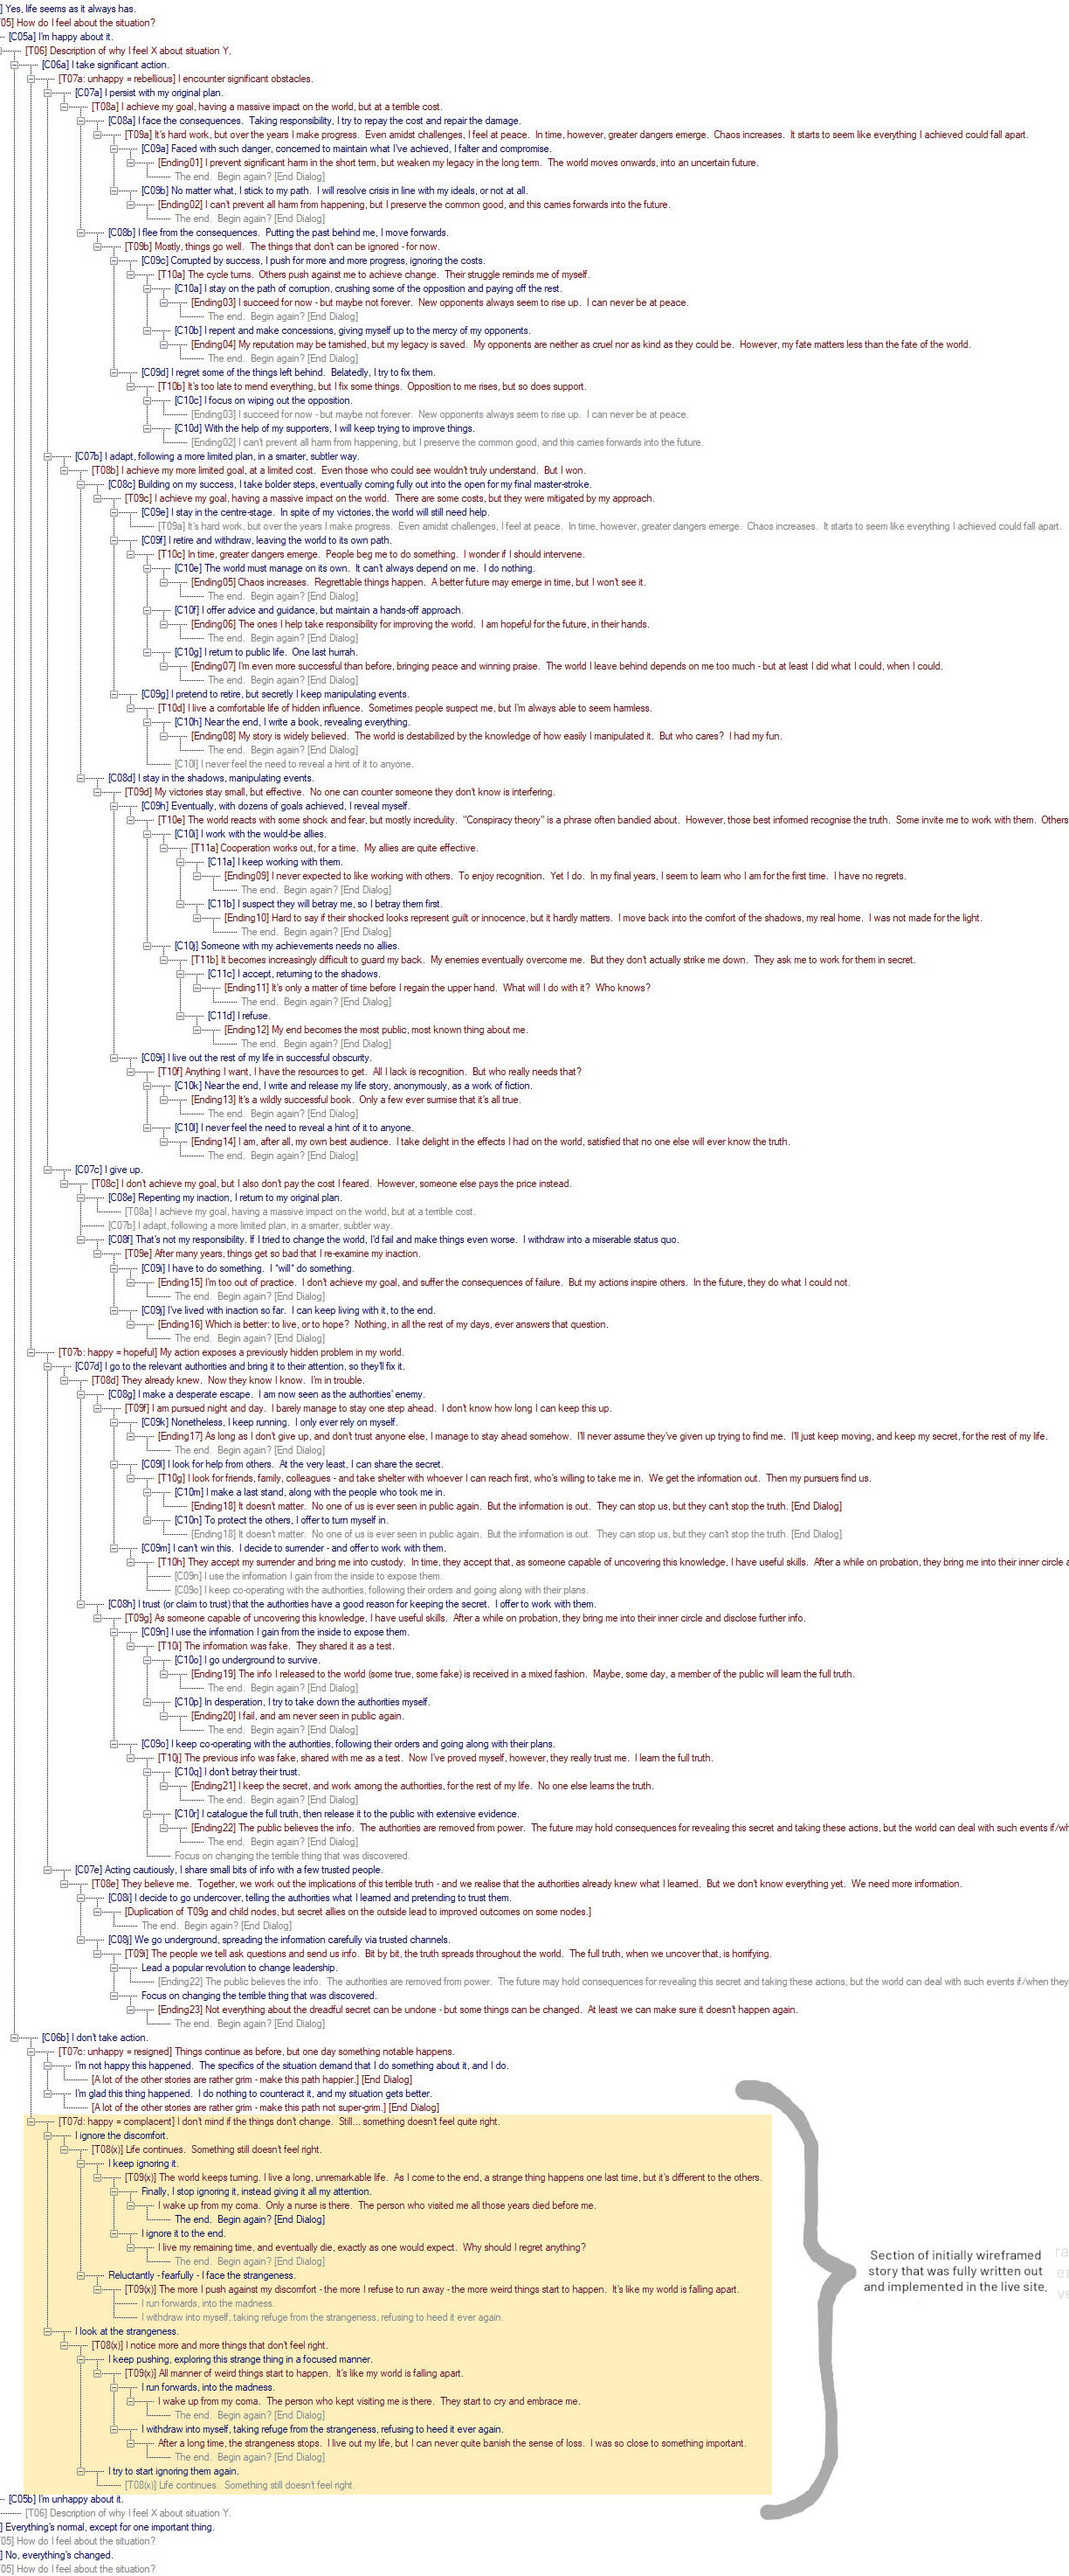
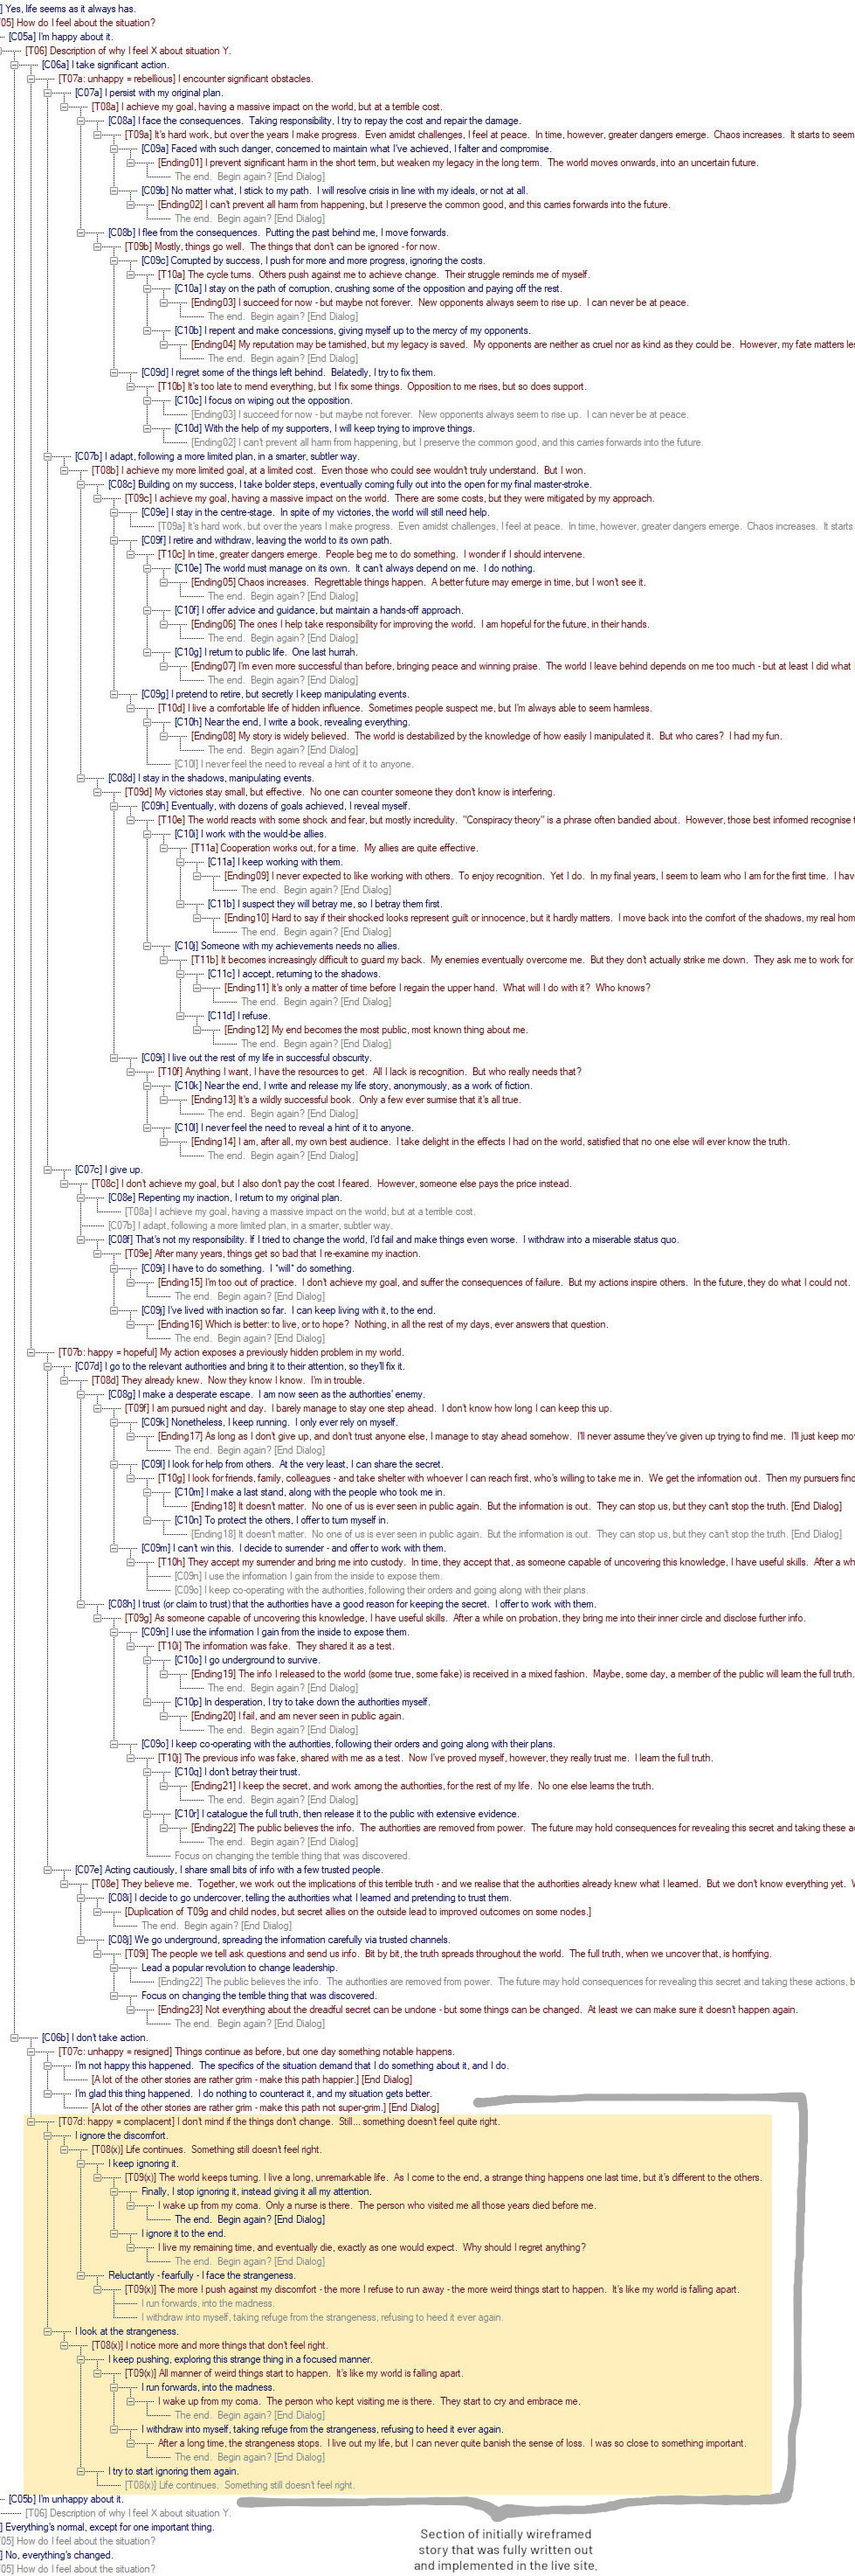
Add Aurora story documentation to readme

Changed region(s): [[0.0, 0.0, 1.0, 0.999]]

diff --git a/README.md b/README.md
@@ -71,6 +71,10 @@ The site was prototyped in GIMP using the initially chosen colour palette and ba
 
 ![Initial mock-up of the desktop site.](/assets/image-readme/wireframe-story.jpg)
 
+- The single story implemented in the live site was elaborated from the wireframe in the conversation editor of Bioware's Aurora Toolset, a tool designed to easily create and track narrative content.  Giving each story node a number in the Aurora Toolset allowed the content to be transferred easily to the storyNodes variable in script.js, with each story number in the toolset tracking directly to a story id in the variable.  In the image below, story nodes are shown in red, choices in blue, and links in grey.  In this image, each choice has an associated character, so that readers of this readme can understand where the links lead.  These characters were not used in script.js and exist solely for documentation purposes.  
+
+![Initial mock-up of the desktop site.](/assets/image-readme/aurora-cropped.jpg)
+
 # Testing
 ## [HTML Validator](https://validator.w3.org/nu/?doc=https%3A%2F%2Festelindis.github.io%2Fstorycraft%2F)
 No errors were returned when passing through the official W3C validator. 
